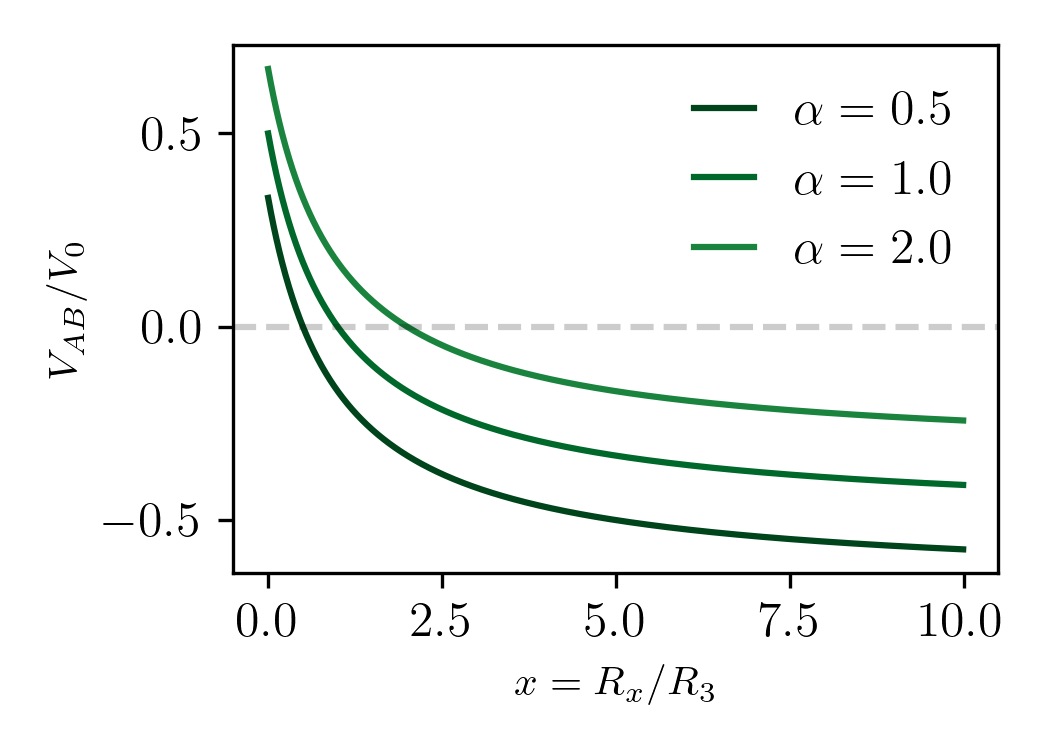
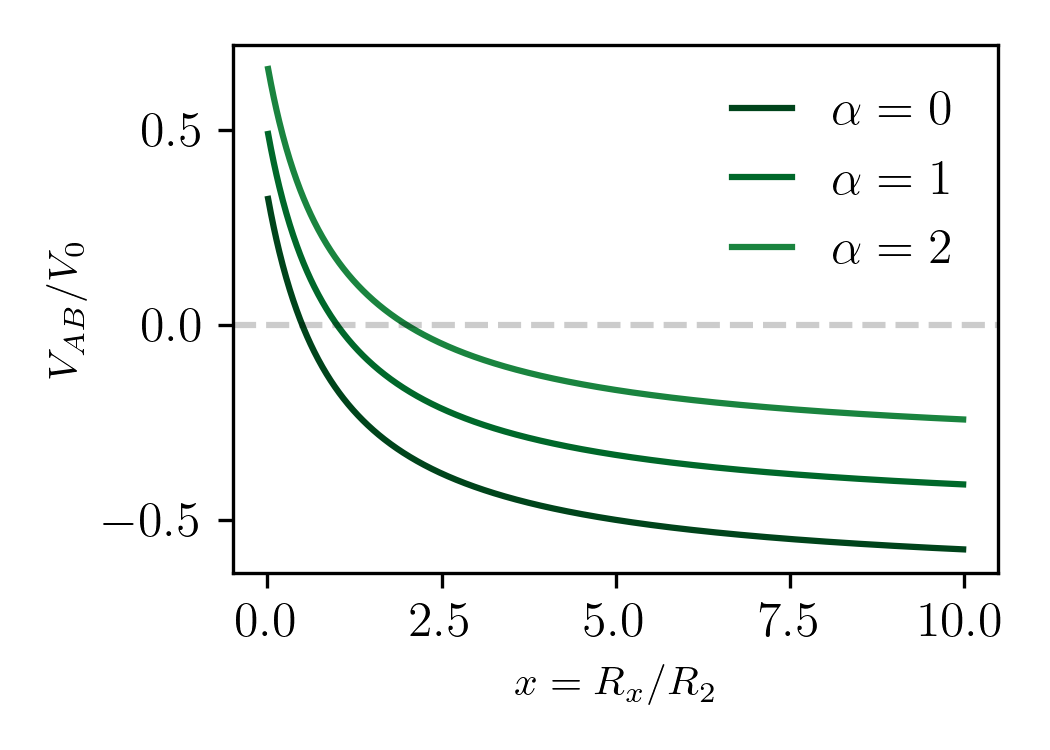
5

diff --git a/Apuntes/Puente de Wheatstone.md b/Apuntes/Puente de Wheatstone.md
@@ -11,45 +11,46 @@ $$
 Las corrientes que circulan por las dos ramas del puente se pueden escribir como:
 
 $$
-I_1 = \frac{V_0}{R_1+R_2}
+I_1 = \frac{V_0}{R_1+R_p}
 $$
 
 $$
-I_2 = \frac{V_0}{R_3+R_x}
+I_2 = \frac{V_0}{R_2+R_x}
 $$
 
 Busco la diferencia de potencial entre A y B del circuito:
 
 $$
-V_A- V_B= I_1 R_2 - I_2 R_x
-
+V_A-V_B = I_1 R_p - I_2 R_x
 $$
 
 $$
-V_A-V_B = V_0 \big( \frac{R_2}{R_1+R_2} - \frac{R_x}{R_3+R_x}  \big)
+V_A-V_B = V_0 \big( \frac{R_p}{R_1+R_p} - \frac{R_x}{R_2+R_x}  \big)
 $$
 
 La condición de equilibrio del puente es $V_{AB}=0$, luego la relación entre resistencias debe cumplir:
 
 $$
-\frac{R_2}{R_1+R_2} - \frac{R_x}{R_3+R_x} = 0
+\frac{R_p}{R_1+R_p} - \frac{R_x}{R_2+R_x} = 0
 $$
 
 $$
-R_2(R_3 + R_x) = R_x(R_1+R_2)
+R_p(R_2 + R_x) = R_x(R_1+R_p)
 $$
 
 $$
-\frac{R_x}{R_3} = \frac{ R_2}{R_1} 
+\frac{ R_p}{R_1} = \frac{R_x}{R_2} 
 $$
 
-Entonces la idea para medir la resistencia incognita es variar $R_2$ hasta que el puente este en equilibrio, $V_{AB}=0$, una vez fijado el valor de esta resistencia puedo hacer la cuenta anterior.
+El cosiente entre las resistencias de la rama 1 tiene que ser igual al cociente entre las resistencias de la rama 2.
+
+Entonces la idea para medir la resistencia incognita es variar $R_p$ hasta que el puente este en equilibrio, $V_{AB}=0$, una vez fijado el valor de esta resistencia puedo hacer la cuenta anterior.
 
 ### El puente como sensor de cambios de resistencia
 
 Supongamos que queremos sensar cambio en $R_x$, esto puede ser por ejemplo por que es un led fotoreceptor donde los cambios de iluminación producen cambios en la resistencia del led. Una buena idea para sensar esos cambios es traducirlo a cambios de la tension $V_{AB}$.
 
-Definimos $x = \frac{R_x}{R_3}$ y $\alpha= \frac{ R_2}{R_1}$, luego:
+Definimos $x = \frac{R_x}{R_2}$ y $\alpha= \frac{ R_p}{R_1}$, luego:
 
 $$
 \frac{V_{AB}}{V_0} = \frac{\alpha}{1-\alpha} - \frac{x}{1-x}
@@ -63,16 +64,14 @@ Entonces, podemos ver que la tensión en los bornes del puente varia de la sigiu
 
 Note que cuando $V_{AB}/V_0 =0$ el puente esta en equilibrio y $x=\alpha$.
 
-Entonces, como en el caso del divisor de tensión, de la relación $R_x/R_3$ puedo obtener el rango de mayor sensibilidad:
+Entonces, como en el caso del divisor de tensión, de la relación $R_x/R_2$ puedo obtener el rango de mayor sensibilidad:
 
 $$
-0<R_x<2R_3
+0<R_x<2R_2
 $$
 
-Y de la relación $R_2/R_1$ obtengo la translación de la curva en el *eje y*. 
+Y de la relación $R_p/R_1$ obtengo la translación de la curva en el *eje y*. 
 
 Si $\alpha\to0$, el puente se transforma en divisor de tensión invertido, para $x\to0$ la tensión tiende a 0, y para $x\to\infty$ la tensión tiende a $-V_0$.
-
-
 
 Si $\alpha\to\infty$, el puente se transforma en divisor de tensión, para $x\to0$ la tensión tiende a $V_0$, y para $x\to\infty$ la tensión tiende a $0$.
